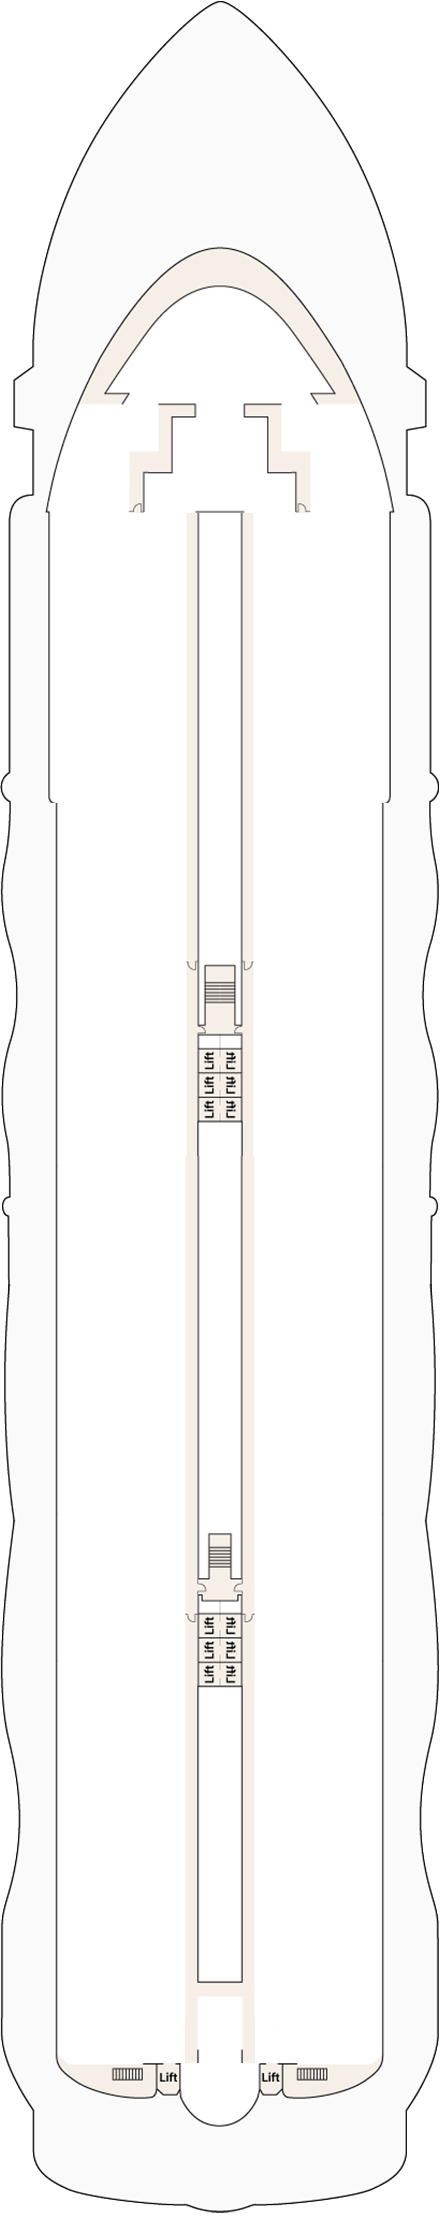
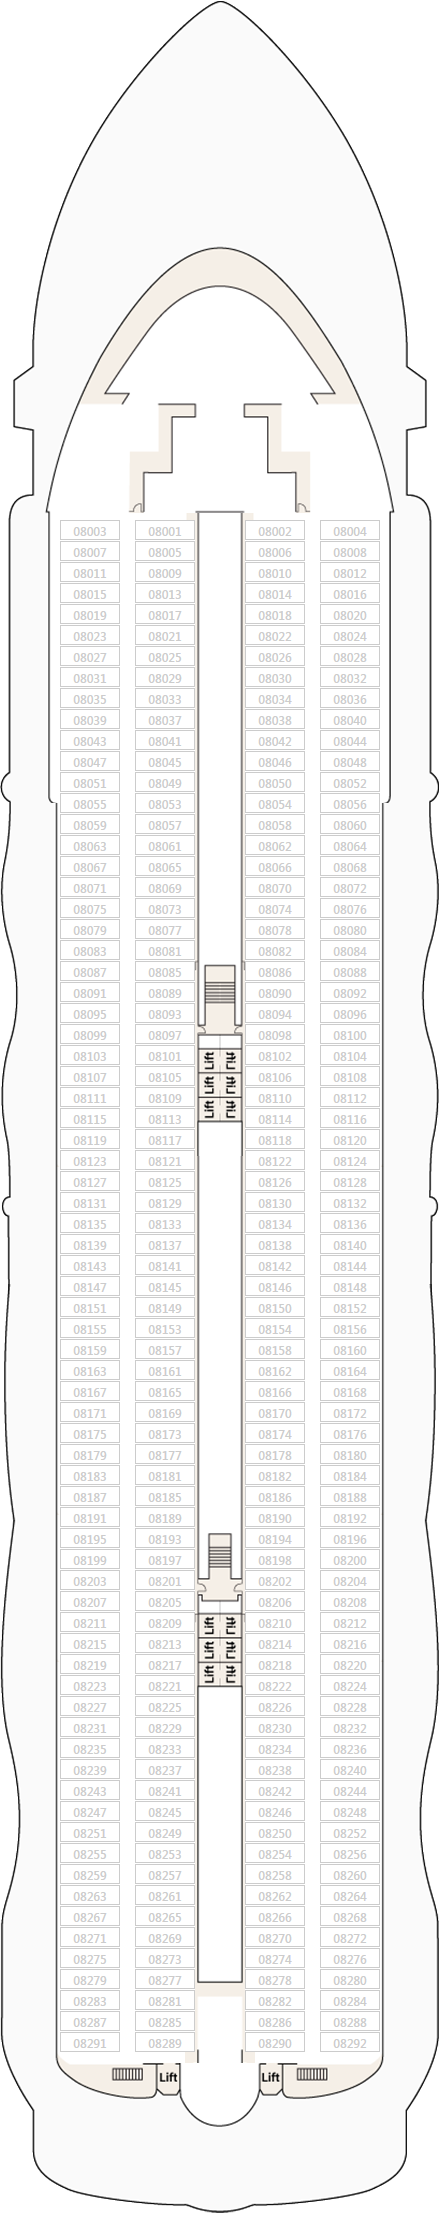
Update Deck UI.

Changed region(s): [[0.5614, 0.2172, 0.8568, 0.9308], [0.2955, 0.2172, 0.4432, 0.9308], [0.1182, 0.2172, 0.2659, 0.9308]]

diff --git a/CruiseApp/CruiseApp.Web/wwwroot/css/site.css b/CruiseApp/CruiseApp.Web/wwwroot/css/site.css
@@ -264,7 +264,6 @@
     border-radius: 0px;
     text-decoration: none;
     color: white;
-/*    color: #CCCCCC;*/
     display: block;
     border: 1px solid rgba(0,0,0,0.2);
 }
@@ -273,7 +272,6 @@
 
 .cabin-blue {
     background-color: #3498db;
-/*    background-color: #FFFFFF;*/
 }
 
 .cabin:hover {
